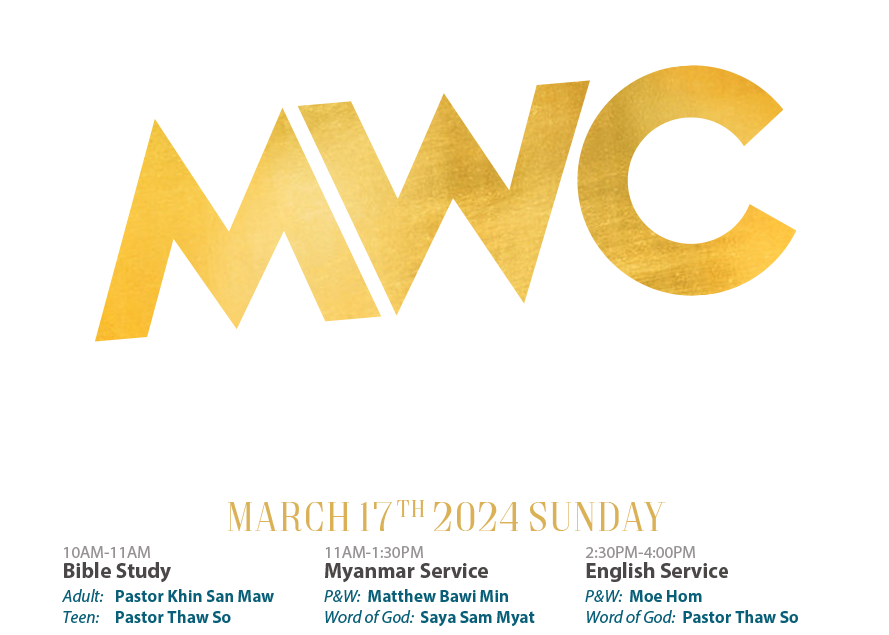
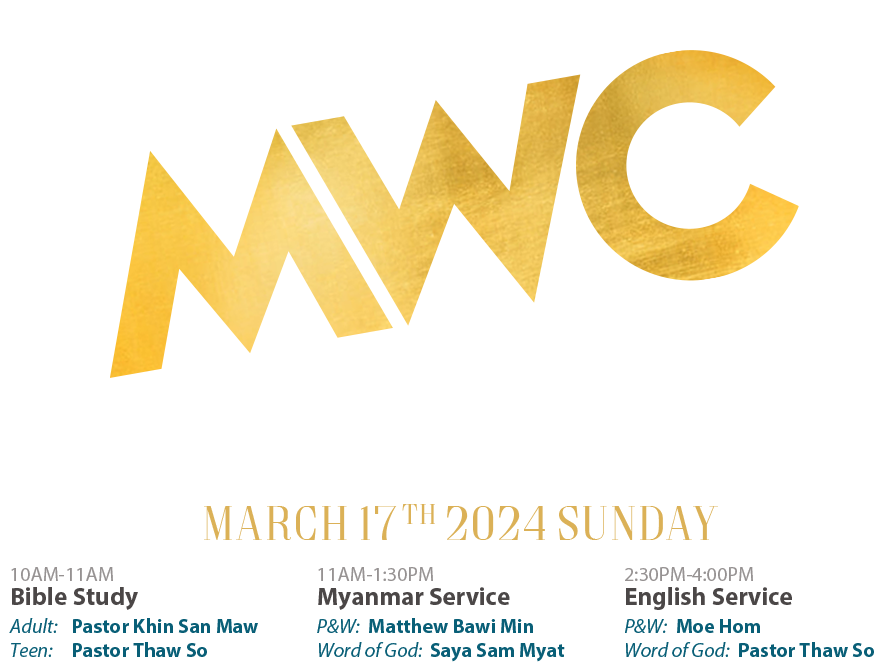
3/17/2024

diff --git a/src/constants/index.ts b/src/constants/index.ts
@@ -9,6 +9,8 @@ export const mwc_map = './imgs/mwc-map.png'
 export const mwc_ping = './imgs/mwc-ping.png'
 export const uyc_2023 = '/imgs/mwc-2023.png'
 export const kidsCamp = '/imgs/kids-camp.png'
+export { our_shcedules } from './indexWeekly.ts'
+export { upcoming_events } from './indexWeekly.ts'
 
 export const navbar_items = [
     {
@@ -55,65 +57,6 @@ export const visions = [
     //     line_2: '☆ To raise up Godly people and leaders.',
     //     line_3: '☆ To establish the new worship center where the place in need.'
     // }
-]
-
-export const our_shcedules = [
-    {
-        day: "Friday",
-        program: [
-            {
-                name: 'UTalk/Youth',
-                time: '7PM -9 PM',
-                live: false
-            }
-        ]
-    },
-    {
-        day: "Saturday",
-        program: [
-            {
-                name: 'Prayer Meeting',
-                time: '10:30AM - 1:30PM',
-                live: false
-            },
-            {
-                name: 'homecell',
-                time: '7PM - 9PM',
-                live: false
-            }
-        ]
-    },
-    {
-        day: "Sunday",
-        program: [
-            {
-                name: 'bible study',
-                time: '10AM-11Am',
-                live: true
-            },
-            {
-                name: 'main service',
-                time: '11AM - 1:30PM',
-                live: true
-            },
-            {
-                name: 'english service',
-                time: '2:30PM - 4PM',
-                live: true
-            }
-        ]
-    }
-]
-
-export const upcoming_events = [
-    {
-        name: 'Welcome',
-        image: '/imgs/Weekly1.png',
-    },
-    {
-        name: 'Weekly',
-        image: '/imgs/Weekly2.png',
-    },
 ]
 
 export const ministries_moto = "Proclaiming the Gospel, Equipping the Saints, Raising up the Leaders, Planting the living Churches"

diff --git a/src/constants/indexWeekly.ts b/src/constants/indexWeekly.ts
@@ -1,0 +1,58 @@
+export const our_shcedules = [
+    {
+        day: "Friday",
+        program: [
+            {
+                name: 'UTalk/Youth',
+                time: '7PM -9 PM',
+                live: false
+            }
+        ]
+    },
+    {
+        day: "Saturday",
+        program: [
+            {
+                name: 'Prayer Meeting',
+                time: '10:30AM - 1:30PM',
+                live: false
+            },
+            {
+                name: 'homecell',
+                time: '7PM - 9PM',
+                live: false
+            }
+        ]
+    },
+    {
+        day: "Sunday",
+        program: [
+            {
+                name: 'bible study',
+                time: '10AM-11Am',
+                live: true
+            },
+            {
+                name: 'main service',
+                time: '11AM - 1:30PM',
+                live: true
+            },
+            {
+                name: 'english service',
+                time: '2:30PM - 4PM',
+                live: true
+            }
+        ]
+    }
+]
+
+export const upcoming_events = [
+    {
+        name: 'Welcome',
+        image: '/imgs/Weekly1.png',
+    },
+    {
+        name: 'Weekly',
+        image: '/imgs/Weekly2.png',
+    },
+]

diff --git a/src/sections/HeroSection.tsx b/src/sections/HeroSection.tsx
@@ -5,7 +5,7 @@ export default function HeroSection() {
   return (
     <SectionContainer
       id='hero'
-      bgImage='bg-hero h-[50rem] sm:h-[41rem] md:h-[56rem] mb-36 sm:mb-20 md:mb-[9rem] w-full'
+      bgImage='bg-hero h-[50rem] sm:h-[39rem] md:h-[56rem] mb-36 sm:mb-24 md:mb-[9rem] w-full'
       hero={true} >
       <div className='relative w-full'>
         <div className='grid grid-cols-1 h-screen w-full place-items-center sm:h-[750px] text-center'>
@@ -13,7 +13,7 @@ export default function HeroSection() {
             <h1 className='text-white text-5xl md:text-[80px] leading-none text-shadow'> Welcome to <br/> MWC </h1>
             <p className='text-xl md:text-3xl text-white text-shadow'>မြန်မာတို့ စုဝေးကိုးကွယ်ရာနေရာမှ<br/>ကြိုဆိုပါ၏။</p>
           </div>
-          <div className='absolute mt-[28em] md:mt-[32rem] lg:mt-[23rem] w-full lg:w-[60%]'>
+          <div className='absolute bottom-5 sm:bottom-16 sm:w-full lg:w-[65%]'>
               <Event_slider />
           </div>
         </div>

diff --git a/src/sections/shedules/Schedules.tsx b/src/sections/shedules/Schedules.tsx
@@ -8,12 +8,12 @@ export default function Schedules() {
       id='schedules'
       bgColor='bg-gradient-to-r from-blue-100 to-cyan-100'
     >
-      <div className='flex flex-col w-full lg:flex-row md:flex-row justify-between'>
+      <div className='flex flex-col w-full lg:flex-row md:flex-row justify-between '>
         <SectionHeader>
           Weekly <br/>
           Schedules
         </SectionHeader>
-        <div className='flex justify-between items-center '>
+        <div className='flex justify-between items-center'>
           <ul className='flex justify-end gap-10 sm:gap-1 md:gap-2'>
             {our_shcedules.map((schedules, index) => (
               <div className='flex mb-0' key={index}>
